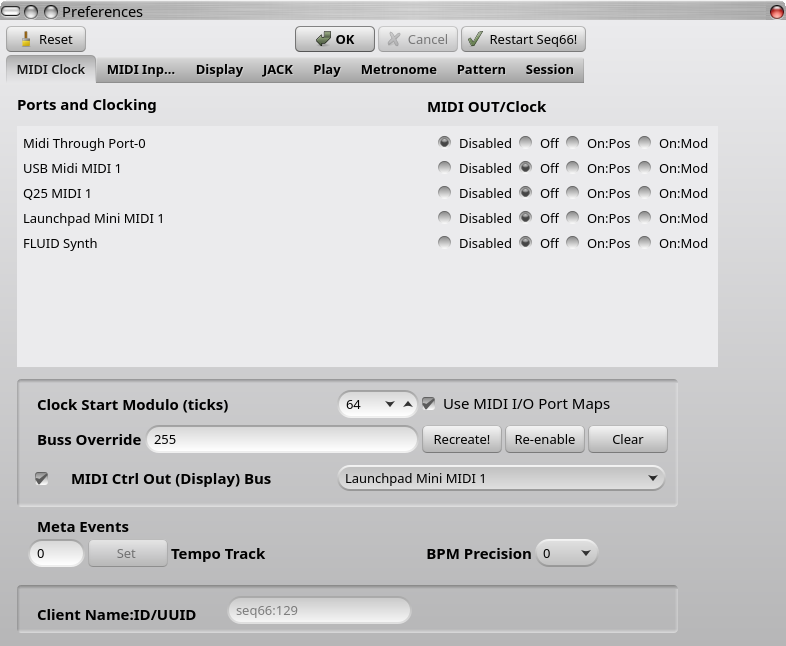
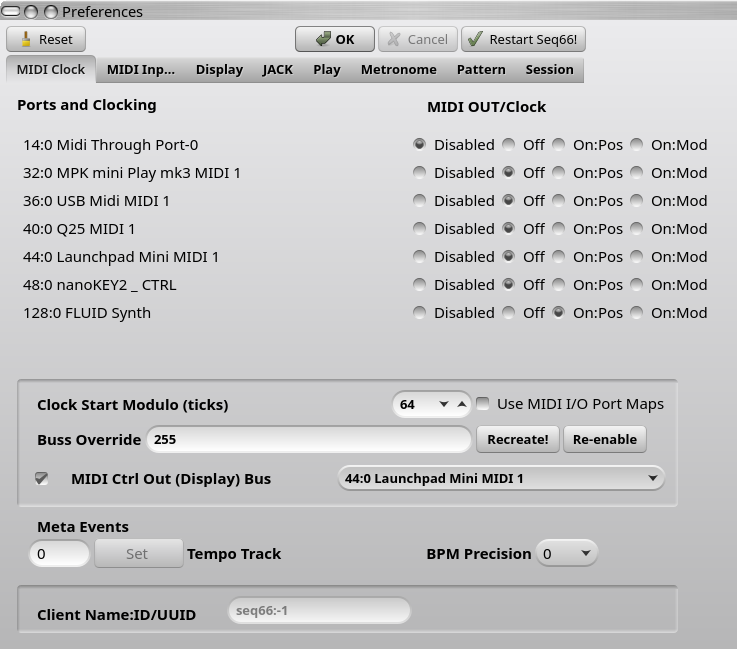
Cleaning up Preferences dialog and user-manual images.

diff --git a/doc/latex/tex/configuration.tex b/doc/latex/tex/configuration.tex
@@ -6,7 +6,7 @@
 % \library     Documents
 % \author      Chris Ahlstrom
 % \date        2021-01-18
-% \update      2026-08-01
+% \update      2026-09-03
 % \version     $Revision$
 % \license     $XPC_GPL_LICENSE$
 %
@@ -39,6 +39,8 @@
          been moved to a separate file for flexibility.
       \item \textbf{'drums' File}.  This file supports remapping percussion
          notes from older drum machines to General MIDI.
+      \item \textbf{'notemap' File}.  This file is just a 'drums' file
+         that is used to remap notes.
       \item \textbf{'playlist' File}. This new file specifies a file that
          contains one or more playlists and MIDI controls for them.
       \item \textbf{'palette' File}. This new file allows replacing the default
@@ -59,17 +61,25 @@
       /home/user/.config/seq66/qseq66.ctrl
       /home/user/.config/seq66/qseq66.mutes
       /home/user/.config/seq66/qseq66.drums
+      /home/user/.config/seq66/qseq66.notemap [perhaps]
       /home/user/.config/seq66/qseq66.playlist
       /home/user/.config/seq66/qseq66.palette
+      /home/user/.config/seq66/qseq66.qss
    \end{verbatim}
 
-   The palette file is not automatically generated.  It can be saved from the
-   \textbf{Edit / Preferences / Display} tab.
-   There are also samples installed in the \texttt{data/samples}
-   directory.
+   The 'palette' file is not automatically generated.
+   It can be saved from the
+   \textbf{Edit / Preferences / Display} tab or be copied from the installed
+   \texttt{data} directories.
+
    The style-sheet file can be specified in the 'rc' file's
    \texttt{[style-sheet-file]} section.
-   There are also some 'keymap' files.  They are not yet used, but may become a
+
+   Note that a \textsl{Seq66} install includes a number of paired 'qss'
+   and 'palette' file.
+
+   There are also some 'keymap' files.
+   They are not yet used, but may become a
    feature of \textsl{Seq66} in the future.
    For \textsl{Microsoft Windows}, the default base name of the files is
    \texttt{qpseq66}, and the default configuration directory is

diff --git a/doc/latex/tex/menu.tex b/doc/latex/tex/menu.tex
@@ -101,7 +101,7 @@
 
 \begin{figure}[H]
    \centering 
-   \includegraphics[scale=0.65]{main-menu/file/light-menu-file-open.png}
+   \includegraphics[scale=0.65]{main-menu/file/light-menu-file-open-2.png}
    \caption{File / Open}
    \label{fig:menu_file_open}
 \end{figure}
@@ -130,7 +130,8 @@
 
 \begin{figure}[H]
    \centering 
-   \includegraphics[scale=0.65]{main-menu/file/dark-menu-file-open-playlist.png}
+%  \includegraphics[scale=0.65]{main-menu/file/dark-menu-file-open-playlist.png}
+   \includegraphics[scale=0.65]{main-menu/file/menu-file-open-playlist.png}
    \caption{File / Open Playlist}
    \label{fig:menu_file_open_playlist}
 \end{figure}
@@ -166,7 +167,7 @@
    \label{fig:menu_file_recent_files_full_paths}
 \end{figure}
 
-   This list is saved in the \texttt{[recent-files]} section of the
+   The recent-files list is saved in the \texttt{[recent-files]} section of the
    'rc' configuration file.
    In the 'rc' file, the full path to the file-name is stored.
    This path is in "UNIX" format, using the forward slash (solidus),
@@ -203,6 +204,7 @@
 
 \begin{figure}[H]
    \centering 
+%  \includegraphics[scale=0.65]{main-menu/file/dark-menu-file-save-as.png}
    \includegraphics[scale=0.65]{main-menu/file/dark-menu-file-save-as.png}
    \caption{File / Save As}
    \label{fig:menu_file_save_as}

diff --git a/libseq66/src/cfg/rcfile.cpp b/libseq66/src/cfg/rcfile.cpp
@@ -25,7 +25,7 @@
  * \library       seq66 application
  * \author        Chris Ahlstrom
  * \date          2018-11-23
- * \updates       2026-07-24
+ * \updates       2026-09-03
  * \license       GNU GPLv2 or above
  *
  *  The <code> ~/.config/qseq66/qseq66.rc </code> configuration file is fairly
@@ -408,6 +408,12 @@ rcfile::parse ()
         }
         infoprintf("%d midi-input-map entries added", count);
     }
+    else
+    {
+        inputslist & inputref = input_port_map();
+        inputref.active(false);
+        status_message("No input port map");
+    }
 
     /*
      * One thing about MIDI clock values.  If a device (e.g. Korg nanoKEY2)
@@ -483,8 +489,11 @@ rcfile::parse ()
         infoprintf("%d midi-clock-map entries added", count);
     }
     else
-        portmaps_present = false;       /* both sections must be present    */
-
+    {
+        clockslist & clocsref = output_port_map();
+        clocsref.active(false);
+        status_message("No output port map");
+    }
     rc().portmaps_present(portmaps_present);
     rc().portmaps_active(inportmap_active && outportmap_active);
 
@@ -1425,4 +1434,3 @@ copy_configuration
  *
  * vim: sw=4 ts=4 wm=4 et ft=cpp
  */
-

diff --git a/doc/latex/tex/live_grid.tex b/doc/latex/tex/live_grid.tex
@@ -22,13 +22,14 @@
 
 \begin{figure}[H]
    \centering 
-   \includegraphics[scale=0.65]{main-window/main-window-annotated.png}
+   \includegraphics[scale=0.65]{main-window/main-window-annotated-2.png}
    \caption{Seq66 Main Screen, Annotated}
    \label{fig:main_screen_annotated}
 \end{figure}
 
    The \textsl{Seq66} main window (i.e. the "Live Grid") appears
    as shown above, though the look can be tailored, as noted below.
+   This figure shows the "elliptical progress box" optional features.
    This figure has many differences from the \textsl{Seq24} main window,
    but the functionality is similar.
    \textsl{Seq66} allows resizing, and can
@@ -44,10 +45,10 @@
    groups shown in the figure above:
 
    \begin{itemize}
-      \item \textbf{Tabs}
-      \item \textbf{Main Top}
-      \item \textbf{Main Bottom}
-      \item \textbf{Menu}
+      \item \textbf{Tabs}.
+      \item \textbf{Main Top}.
+      \item \textbf{Main Bottom}.
+      \item \textbf{Menu}. See \sectionref{sec:menu}.
    \end{itemize}
 
 \subsection{Tabs}

diff --git a/seq_qt5/src/gui/qseditoptions.hpp b/seq_qt5/src/gui/qseditoptions.hpp
@@ -28,7 +28,7 @@
  * \library       seq66 application
  * \author        Chris Ahlstrom
  * \date          2018-01-01
- * \updates       2026-09-02
+ * \updates       2026-09-03
  * \license       GNU GPLv2 or above
  */
 
@@ -39,13 +39,17 @@
 #include "cfg/settings.hpp"             /* seq66::combolist class, helpers  */
 
 /**
- * EXPERIMENTAL.
- *
- *  This seems to work reasonably well now.
+ *  The port-map "fix" (re-enabling) seems to work reasonably well now.
  */
 
-#define SEQ66_ALLOW_PORTMAP_CLEAR
 #define SEQ66_ALLOW_PORTMAP_FIX
+
+/**
+ *  The clear feature removes the map sections from the 'rc', but
+ *  they come back. So now we just set maps-active to off.
+ */
+
+#undef SEQ66_ALLOW_PORTMAP_CLEAR
 
 #if defined SEQ66_ALLOW_PORTMAP_FIX
 #include <vector>                       /* std::vector<>                    */

diff --git a/seq_qt5/src/qt5_helpers.cpp b/seq_qt5/src/qt5_helpers.cpp
@@ -24,7 +24,7 @@
  * \library       seq66 application
  * \author        Chris Ahlstrom
  * \date          2018-03-14
- * \updates       2026-08-21
+ * \updates       2026-09-02
  * \license       GNU GPLv2 or above
  *
  *  The items provided externally are:
@@ -243,7 +243,18 @@ qt_set_icon (const char * pixmap_array [], QPushButton * button)
 std::string
 qt_icon_theme ()
 {
-    QString qs = QIcon::themeName();
+    QString qs { QIcon::themeName() };
+    return qs.toStdString();
+}
+
+/**
+ *  Gets the applications style, i.e. theme.
+ */
+
+std::string
+qt_style_theme (const QApplication & qapp)
+{
+    QString qs { qapp.style()->objectName() };
     return qs.toStdString();
 }
 

diff --git a/seq_qt5/src/qt5nsmanager.cpp b/seq_qt5/src/qt5nsmanager.cpp
@@ -25,7 +25,7 @@
  * \library       qt5nsmanager application
  * \author        Chris Ahlstrom
  * \date          2020-03-15
- * \updates       2026-05-09
+ * \updates       2026-09-02
  * \license       GNU GPLv2 or above
  *
  *  Duty now for the future! Join the Smart Patrol!
@@ -240,6 +240,10 @@ qt5nsmanager::create_window ()
         std::string themename = qt_icon_theme();
         if (! themename.empty())
             file_message("Icon theme", themename);
+
+        std::string stylename { qt_style_theme(m_application) };
+        if (! stylename.empty())
+            file_message("Qt theme", stylename);
 
         if (rc().style_sheet_active())
         {

diff --git a/seq_qt5/include/qt5_helpers.hpp b/seq_qt5/include/qt5_helpers.hpp
@@ -28,7 +28,7 @@
  * \library       seq66 application
  * \author        Chris Ahlstrom
  * \date          2018-03-14
- * \updates       2026-08-19
+ * \updates       2026-09-02
  * \license       GNU GPLv2 or above
  *
  * Note:
@@ -54,6 +54,7 @@
  */
 
 #include <QAction>
+#include <QApplication>
 #include <QComboBox>
 #include <QColor>
 #include <QErrorMessage>
@@ -131,6 +132,7 @@ extern std::string qt_set_color
 );
 extern void qt_set_icon (const char * pixmap_array [], QPushButton * button);
 extern std::string qt_icon_theme ();
+extern std::string qt_style_theme (const QApplication & qapp);
 extern bool qt_prompt_ok
 (
     const std::string & text,
